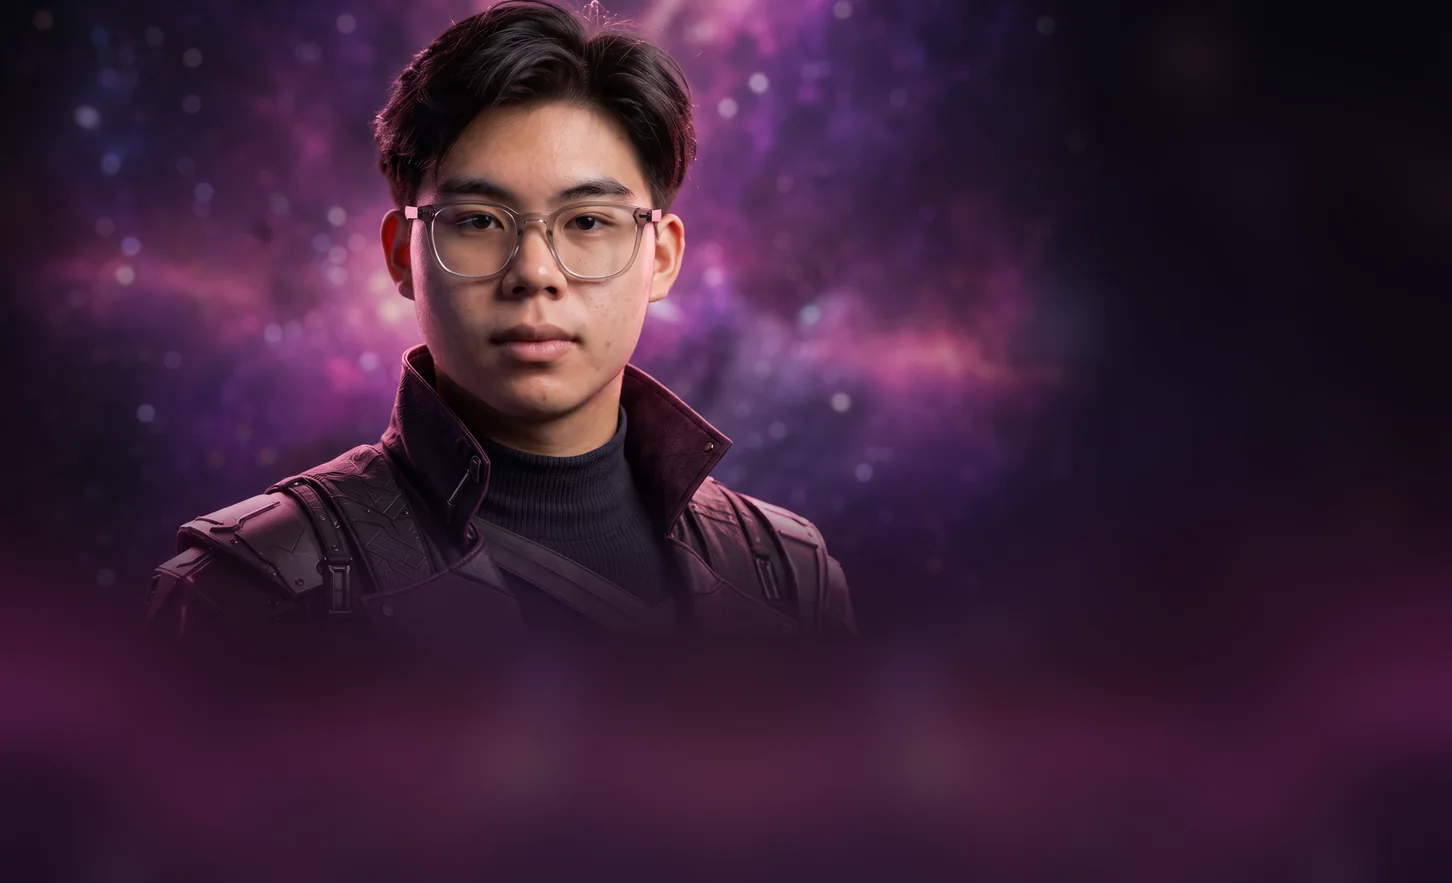
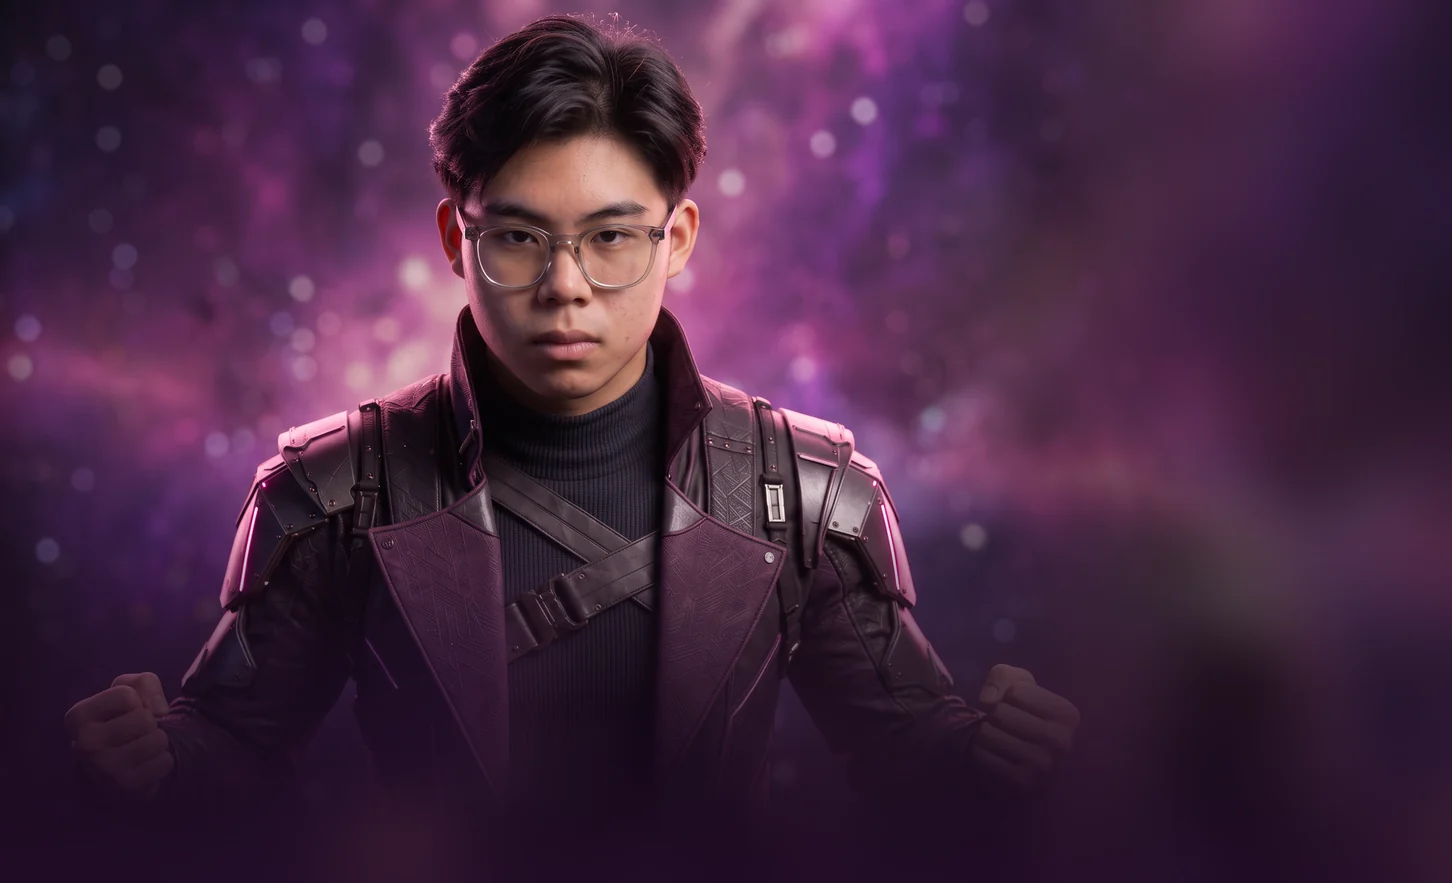
Partner Heroes: new action-pose big art for cards 01-11
Claude-Session: https://claude.ai/code/session_01QpfYAiXFaQHcA12hC36bw4

diff --git a/index.html b/index.html
@@ -1542,7 +1542,7 @@
     $('phQuote').textContent=main?first.quote:'Different expertises, one ecosystem.';
     document.querySelectorAll('.hc').forEach(function(x){x.classList.toggle('is-on',Number(x.dataset.hero)===slot)});
     if(window.fcuHeroPage){var hc=document.querySelector('.hc[data-hero="'+slot+'"]');window.fcuHeroPage(Number(hc&&hc.dataset.pg||0));}
-    var art=document.querySelector('.ph-art'); if(art){art.style.backgroundImage="linear-gradient(90deg,rgba(8,4,18,.6) 0,rgba(8,4,18,0) 32%,rgba(8,4,18,0) 58%,rgba(8,4,18,.55) 100%),linear-gradient(180deg,rgba(8,4,18,0) 55%,rgba(8,4,18,.7) 100%),url('heroes/big/p"+String(slot+1).padStart(2,'0')+".webp?v=3')";art.setAttribute('aria-label',name);}
+    var art=document.querySelector('.ph-art'); if(art){art.style.backgroundImage="linear-gradient(90deg,rgba(8,4,18,.6) 0,rgba(8,4,18,0) 32%,rgba(8,4,18,0) 58%,rgba(8,4,18,.55) 100%),linear-gradient(180deg,rgba(8,4,18,0) 55%,rgba(8,4,18,.7) 100%),url('heroes/big/p"+String(slot+1).padStart(2,'0')+".webp?v=4')";art.setAttribute('aria-label',name);}
     $('phSignName').textContent=name; $('phSignRole').textContent=role;
   };
   document.addEventListener('click',function(e){
